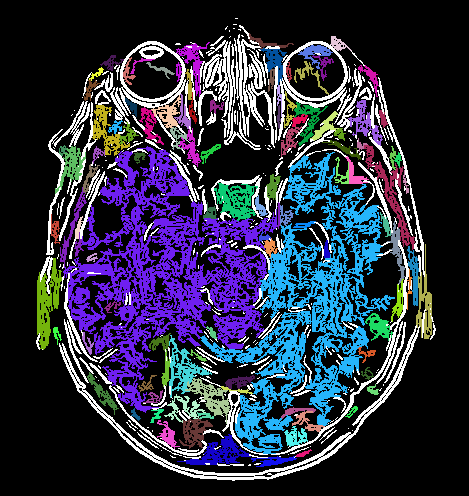
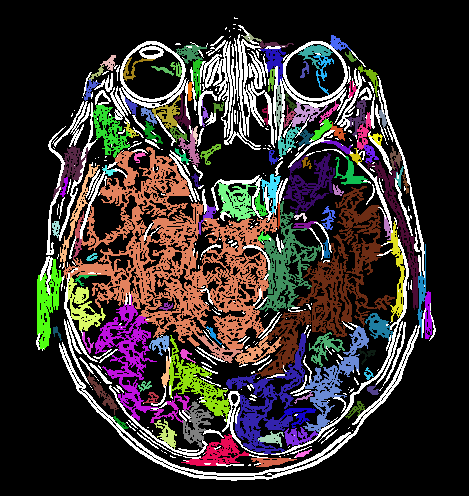
updated README.md

diff --git a/src/filters.c b/src/filters.c
@@ -9,12 +9,14 @@ void gaussian_blur(struct pixel_wb **image_wb, int height, int width){
         {0.064, 0.084, 0.064}
     };
     struct pixel_wb **image_copy = copy_image_wb(image_wb, height, width);
+    double color;
     for (i = 1; i < height - 1; i++)
         for (j = 1; j < width - 1; j++){
-            image_wb[i][j].c = 0;
+            color = 0;
             for (dx = -1; dx <= 1; dx++)
                 for (dy = -1; dy <= 1; dy++)
-                    image_wb[i][j].c += (int) (image_copy[i + dx][j + dy].c * gauss[dx + 1][dy + 1]);
+                    color += (double)(image_copy[i + dx][j + dy].c) * gauss[dx + 1][dy + 1];
+            image_wb[i][j].c = color;
         }
     for (i = 0; i < height; i++)
        free(image_copy[i]);
@@ -24,18 +26,18 @@ void gaussian_blur(struct pixel_wb **image_wb, int height, int width){
 
 void sober_filter(struct pixel_wb **image_wb, int height, int width){
     struct pixel_wb **image_copy = copy_image_wb(image_wb, height, width);
-    int gx[][3] = {
+    int gx[3][3] = {
         {-1, 0, 1},
         {-2, 0, 2},
         {-1, 0, 1}
     };
-    int gy[][3] = {
+    int gy[3][3] = {
         {1, 2, 1},
         {0, 0, 0},
         {-1, -2, -1}
     };
 
-    int i, j, grad, dx, dy, sx, sy, color;
+    int i, j, grad, dx, dy, color, sx, sy;
     for (i = 1; i < height - 1; i++)
         for (j = 1; j < width - 1; j++){
             sx = 0;

diff --git a/README.md b/README.md
@@ -4,6 +4,170 @@ ___
 ### Компиляция и запуск проекта 
 
 ```
+    git clone https://github.com/ZhizhchenkoA/BigTask.git
+    cd BigTask
     make && ./BigTask
 ```
+
+### Структура проекта 
+
+```c
+    |-img/ // папка с изображениями
+     -- ...
+
+    |-src/ // заголовочные файлы
+     --components.c // разбиение на компоненты связности
+     --filters.c // Фильтры Гаусса и Собеля для изображения
+     --image.c // Загрузка/запись изображение
+     --stack.c // Работа со стеком для DFS
+     --lodepng.c // Библиотека для загрузки изображения
+     --main.c // основной код, использование функций из других файлов
+
+    |-include/ // Заголовочные файлы
+     --components.h
+     --filters.h
+     --image.h
+     --stack.h 
+     --lodepng.h
+     --main.h
+    |-Makefile // сборка проекта
+    |-.gitignore // файлы, которые не надо добавлять в git реозиторий
+    |-README.md // информация о проекте 
+```
+
+### Подробнее о коде
+
+##### Используемые структуры
+ Классический стек с операциями push и pop для реализации нерекурсивного DFS
+```c
+struct stack_elem{
+    int i, j;
+    struct stack_elem *next;
+};
+void push(stack_elem **stack, int i, int j);
+stack_elem pop(stack_elem **stack);
+```
+Структура для хранение одного цветного пикселя в формате RGBA, где каждый цетв представляет собой число типа unsigned char в диапазоне $[0, 255]$
+
+```c
+typedef struct pixel {
+    unsigned char r, g, b, a;
+}pixel;
+```
+
+Структура для хранения чёрно-белого пикселя, а также его принадлежности к определённой компоненте свзяности.
+```c
+typedef struct pixel_wb{
+    unsigned char c;
+    int component;
+}pixel_wb;
+```
+
+##### Функции для работы с изображением (из фалйа image.c)
+
+Загрузка изображения и преобрахование его в формат двумерного массива из структур `pixel` размера $\text{height} \times \text{width}$ 
+```c
+int read_png(struct pixel ***image, int *width, int *height, char *filename);
+```
+
+Преобразование изображения в чёрно-белый формат (в двумерный массив структур `pixel_wb`) 
+```c
+int convert_to_wb(struct pixel **image, int height, int width, struct pixel_wb **image_wb)
+```
+
+Вспомогательная функция для копирования чёрно-белого изображения
+```с
+struct pixel_wb **copy_image_wb(struct pixel_wb **image_wb, int height, int width);
+```
+
+Запись чёрно-белого изображения
+```с
+int write_png_wb(struct pixel_wb **image_wb, int height, int width, char *filename);
+```
+
+Раскраска изображения в зависимости от компоненты связности (фон рассматрвается как одна чёрная компонента, мелкие компоненты (с количеством пикселей меньше `min_pixels`) рассматриваются как фон)
+
+```c
+int write_png_color(struct pixel_wb **image_wb, int height, int width, int *componets_arr, int min_pixels, char *filename);
+```
+
+Цвета генерируются псевдорандомно с помощью умножений номера компоненты связности на простые числа
+
+```c
+image[idx] = comp * 13 % 256;
+image[idx + 1] = comp * 29 % 256;
+image[idx + 2] = comp * 19 % 256;
+```
+
+##### Фильтры для изображения (из файла filters.c)
+
+Добавление контрастности (затемненее сильно чёрных пикселей до полностью чёрных, осветление белых до полностью белых, начиная с пороговых значений `min_c` и `max_c` соответственно)
+
+```c
+void add_contrast(struct pixel_wb **image_wb, int height, int width, int max_c, int min_c);
+```
+
+Фильтр Гуасса для размытия изображения с ядро размера $3 \times 3$ 
+$$
+    G = \begin{pmatrix}
+    0{,}064 & 0{,}084 & 0{,}064\\
+    0{,}084 & 0{,}084 & 0{,}084\\
+    0{,}064 & 0{,}084 & 0{,}064
+    \end{pmatrix}
+$$
+```c
+void gaussian_blur(struct pixel_wb **image_wb, int height, int width)
+```
+
+Фильр Собеля с ядрами размера $3 \times 3$ для выделения контуров изображения
+
+$$
+    G_x = \begin{pmatrix}
+    -1 & 0 & 1\\
+    -2 & 0 & 2\\
+    -1 & 0 & 1
+    \end{pmatrix}
+$$
+$$
+    G_y = \begin{pmatrix}
+    1 & 2 & 1\\
+    0 & 0 & 0\\
+    -1 & -2 & -1
+    \end{pmatrix}
+$$
+
+```c
+void sober_filter(struct pixel_wb **image_wb, int height, int width)
+```
+
+##### Работа с изображением, как с графом 
+
+Разбиение графа на компоненты связности путём нерекурсивного DFS. Граф не хранится в явном виде, запускается волна, начиная с левого верхнего угла изображения. Ребро между пикселями есть, если их модуль разницы их цветов не превышает значения ``
+
+```c
+void DFS(struct pixel_wb **image_wb, int height, int width, int i, int j, int diff, int idx_component);
+int connected_components(struct pixel_wb **image_wb, int height, int width, int diff)
+// запуск DFS для каждого пикселя, который ещё не добавлен в какую-либо компоненты
+```
+
+Подсчёт количества пикселей в каждой из компонент связности
+```c
+void count_pixel_in_components(struct pixel_wb **image_wb, int height, int width, int *componets_arr);
+```
+
+##### Основной код программы (main.c)
+
+Ведётся последоваетльная обработка изображения 
+1) Сначала применяется фильтр Гаусса для размытия изображения.
+2) Затем фильтр Собеля для выделения границ.
+3) Добавления контрастности.
+4) Разбиение на компоненты связности
+5) Покраска изображения в зависиомсти от компоненты
+
+### Работа программы на примере
+##### ДО:
+![alt text](image-1.png)
+
+##### ПОСЛЕ:
+![alt text](image.png)
 
